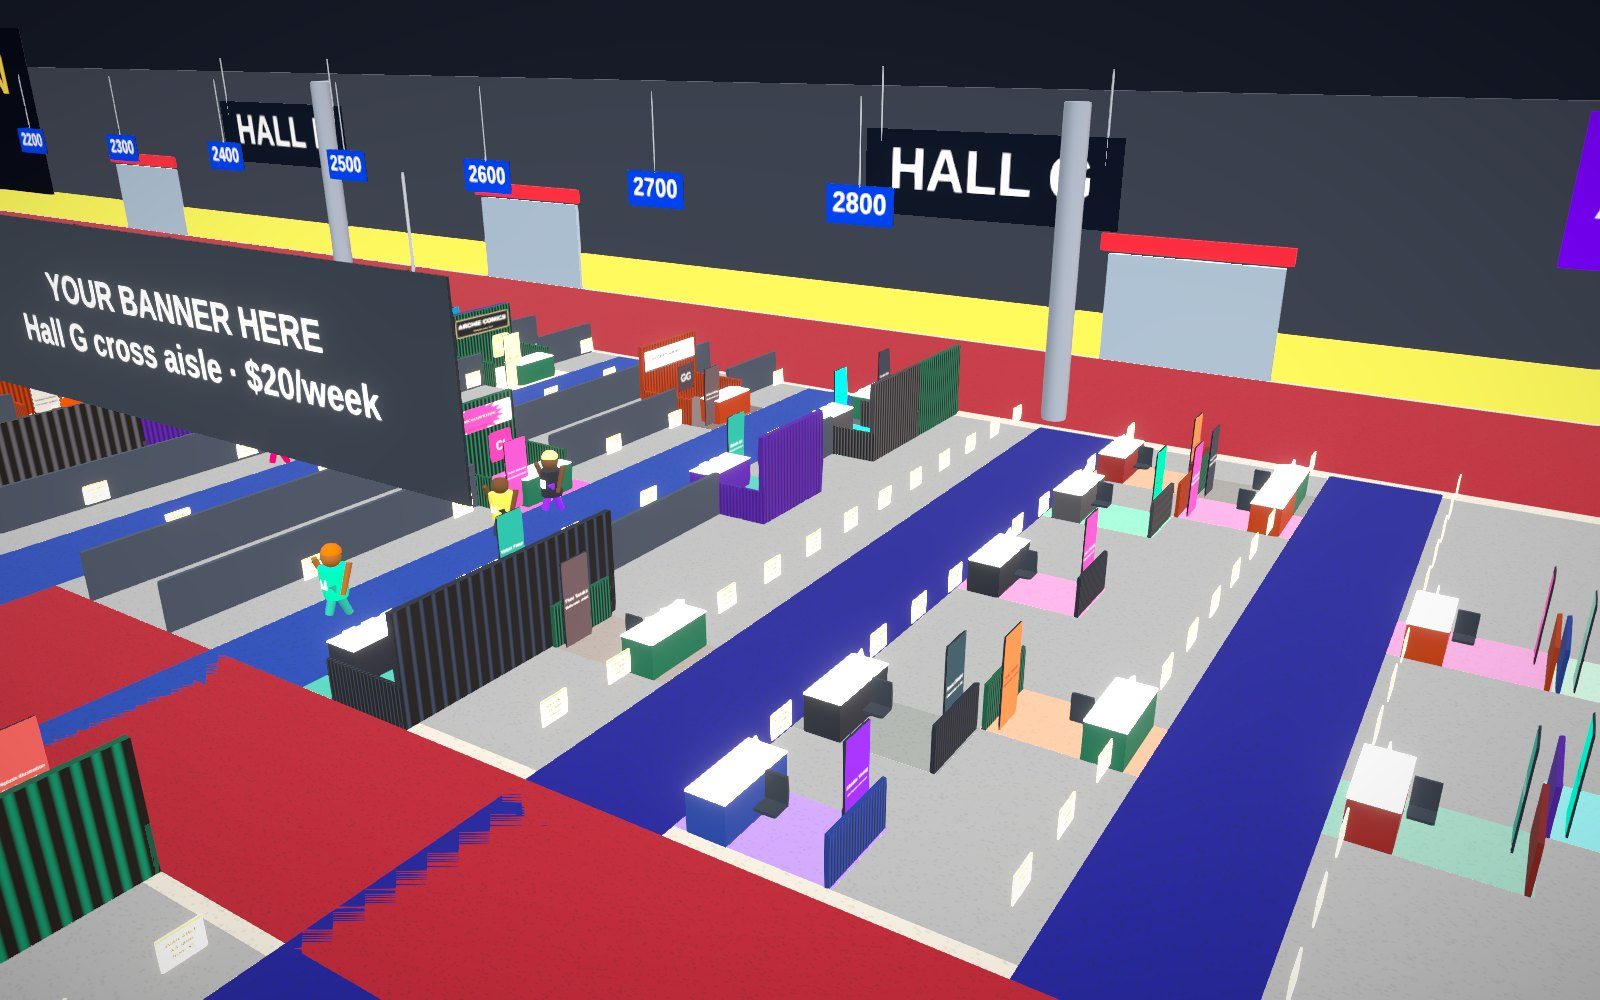
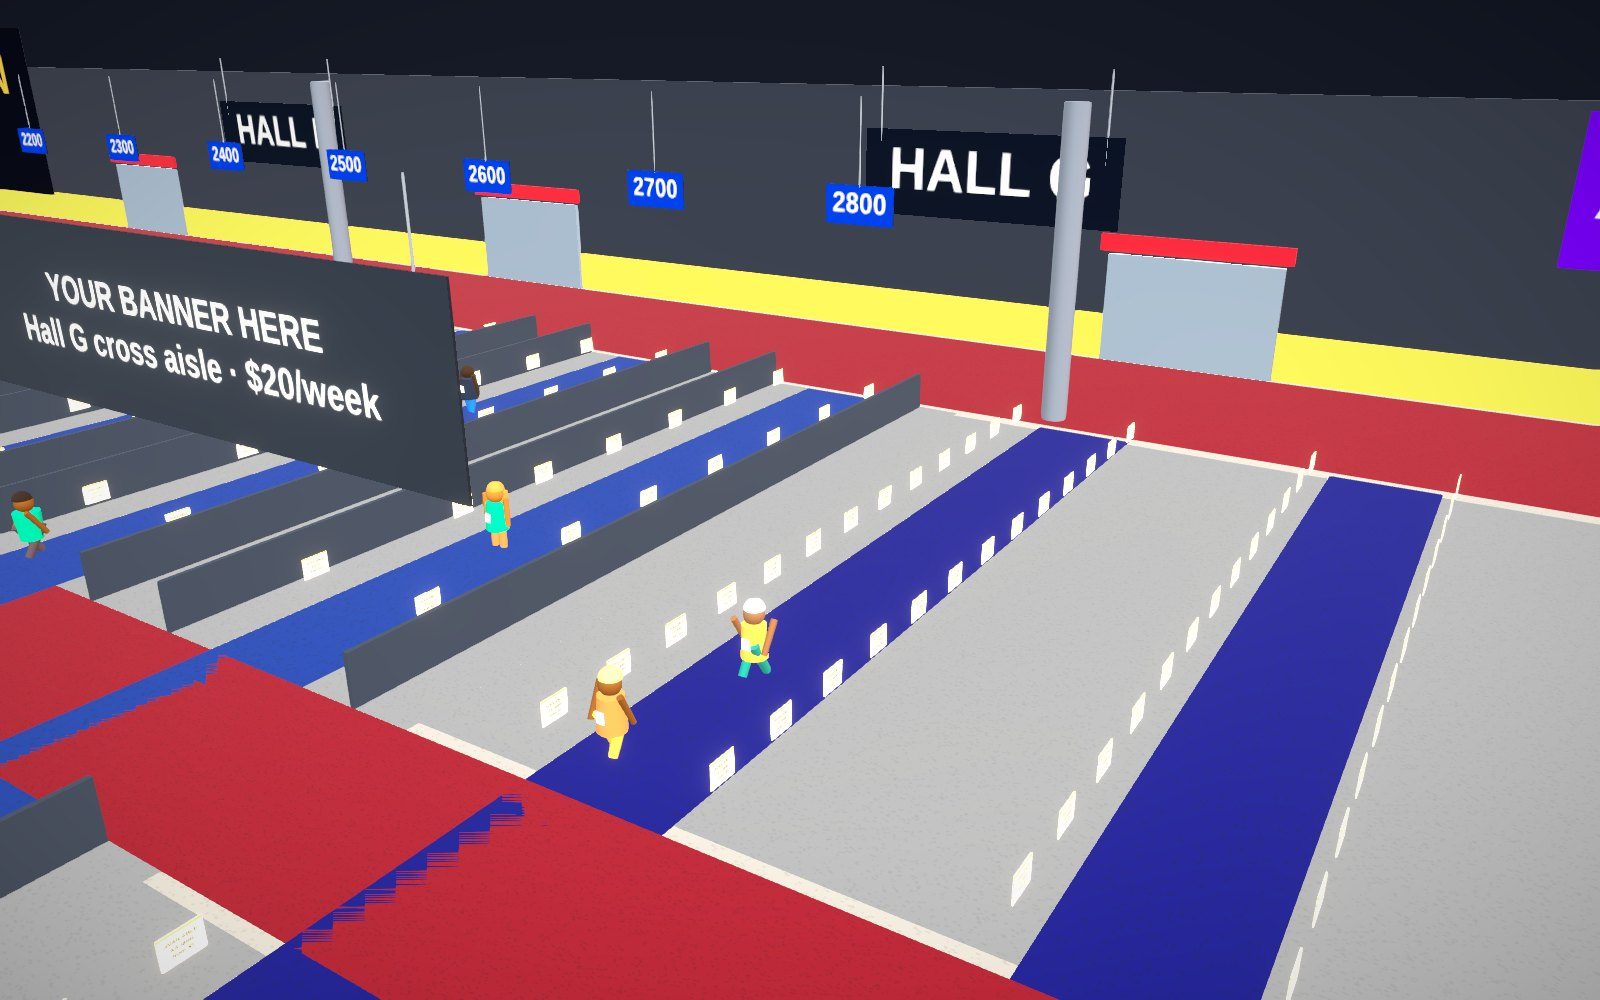
Production launches with an empty hall; bigger ambient crowd; no demo content
No seed in production: the demo seed moved to scripts/dev/seed-demo.ts, is
no longer an npm script, names only fictional exhibitors, and deploy.sh lost
its --seed flag. The landing page no longer shows invented numbers or events:
with zero booths it reads "Opening week" and the floating cards describe the
mechanics instead of fake takeovers; the marquee lists exhibitor categories,
not brands; all marketing renders and README images were recaptured from an
empty hall.

The crowd of walking bots grew to 110 on the map and 140 when walking, spread
across every aisle including Artists' Alley, with random pauses, varied pace
and distance culling so it stays smooth.

Claude-Session: https://claude.ai/code/session_01XnjhiRk9wMtWjBoAHjPDez

diff --git a/scripts/dev/seed-demo.ts b/scripts/dev/seed-demo.ts
@@ -1,75 +1,79 @@
 /**
- * Seeds a believable demo show floor: ~260 exhibitors and artists across the
- * halls, 30 days of metrics, a sales history and an activity feed. Run: npm run seed
+ * LOCAL DEVELOPMENT ONLY. Fills a local database with a fictional show floor so the
+ * 3D scene and dashboards have something to render while you work. Never run this
+ * against a production database: the site launches with an empty hall on purpose.
+ *
+ * Seeds a fictional show floor: ~260 exhibitors and artists across the
+ * halls, 30 days of metrics, a sales history and an activity feed. Run: npx tsx scripts/dev/seed-demo.ts [--force]
  * Idempotent-ish: skips if booths already exist unless --force.
  */
 import "dotenv/config";
 import { sql } from "drizzle-orm";
-import { db, ensureMigrated, schema } from "../src/lib/db";
-import { claimPriceCents, spaceColumns } from "../src/lib/economy";
-import { newCode, newId, seeded, dayKey } from "../src/lib/util";
-import { splitTakeover, BANNER_STYLES } from "../src/lib/config";
-import { hallLayout, boothSpace } from "../src/lib/hall/layout";
-import { closeSeason } from "../src/lib/seasons";
-import { weekBounds } from "../src/lib/util";
+import { db, ensureMigrated, schema } from "../../src/lib/db";
+import { claimPriceCents, spaceColumns } from "../../src/lib/economy";
+import { newCode, newId, seeded, dayKey } from "../../src/lib/util";
+import { splitTakeover, BANNER_STYLES } from "../../src/lib/config";
+import { hallLayout, boothSpace } from "../../src/lib/hall/layout";
+import { closeSeason } from "../../src/lib/seasons";
+import { weekBounds } from "../../src/lib/util";
 
 const force = process.argv.includes("--force");
 
 const NAMES: Array<[string, string, string, string]> = [
-  // name, tagline, category, website
-  ["Marvel Comics", "Earth's mightiest booth", "comics", "marvel.com"],
-  ["DC", "Home of the Justice League", "comics", "dc.com"],
-  ["Image Comics", "Creator-owned since 1992", "comics", "imagecomics.com"],
-  ["Dark Horse", "The best in illustrated storytelling", "comics", "darkhorse.com"],
-  ["IDW Publishing", "TMNT, Sonic, Star Trek", "comics", "idwpublishing.com"],
-  ["BOOM! Studios", "Something, Something, Something Comics", "comics", "boom-studios.com"],
-  ["Oni Press", "Scott Pilgrim lives here", "comics", "onipress.com"],
-  ["Fantagraphics", "Publisher of the world's greatest cartoonists", "comics", "fantagraphics.com"],
-  ["Hasbro Pulse", "Fan-first exclusives", "toys", "hasbropulse.com"],
-  ["Funko", "Pop! Everything.", "toys", "funko.com"],
-  ["Mattel Creations", "Masters of the Universe & more", "toys", "creations.mattel.com"],
-  ["Sideshow", "Collectible statues", "toys", "sideshow.com"],
-  ["Hot Toys", "1/6 scale perfection", "toys", "hottoys.com.hk"],
-  ["Super7", "ReAction figures", "toys", "super7.com"],
-  ["Wizards of the Coast", "Magic: The Gathering · D&D", "games", "wizards.com"],
-  ["Bandai Namco", "Gunpla, Dragon Ball, Tekken", "games", "bandainamcoent.com"],
-  ["Nintendo", "Play has no limits", "games", "nintendo.com"],
-  ["Pokémon Center", "Gotta catch 'em all", "games", "pokemoncenter.com"],
-  ["Crunchyroll", "Anime, every season", "media", "crunchyroll.com"],
-  ["Adult Swim", "[as]", "media", "adultswim.com"],
-  ["Nerdist", "Podcasts, news, nerds", "media", "nerdist.com"],
-  ["Lucasfilm", "A galaxy far, far away", "media", "starwars.com"],
-  ["Legendary", "Monsterverse", "media", "legendary.com"],
-  ["Loot Crate", "Monthly fandom boxes", "retail", "lootcrate.com"],
-  ["Mile High Comics", "The biggest back-issue dealer", "retail", "milehighcomics.com"],
-  ["Graphitti Designs", "Tees since 1982", "retail", "graphittidesigns.com"],
-  ["BoxLunch", "Give back, geek out", "retail", "boxlunch.com"],
-  ["Entertainment Earth", "Collectibles delivered", "retail", "entertainmentearth.com"],
-  ["Hero Initiative", "Helping comic creators in need", "fan", "heroinitiative.org"],
-  ["501st Legion", "Bad guys doing good", "fan", "501st.com"],
+  // name, tagline, category, website — all fictional; the demo floor never names real companies or people
+  ["Meridian Comics", "Heroes for a new century", "comics", "meridiancomics.example"],
+  ["Nightfall Press", "Crime, noir and the occasional ghost", "comics", "nightfallpress.example"],
+  ["Paper Rocket", "Creator-owned since 2014", "comics", "paperrocket.example"],
+  ["Ironwood Books", "The best in illustrated storytelling", "comics", "ironwoodbooks.example"],
+  ["Tidal Wave Comics", "Sea monsters, every Wednesday", "comics", "tidalwavecomics.example"],
+  ["Lantern Hill", "Something, something, something comics", "comics", "lanternhill.example"],
+  ["Quarter Moon", "Slice-of-life, one slice at a time", "comics", "quartermoon.example"],
+  ["Gutterworks", "Publisher of the world's strangest cartoonists", "comics", "gutterworks.example"],
+  ["Kaboom Toys", "Fan-first exclusives", "toys", "kaboomtoys.example"],
+  ["Pop Shelf", "Vinyl figures of everyone", "toys", "popshelf.example"],
+  ["Forge & Form", "Masters of the resin statue", "toys", "forgeandform.example"],
+  ["Sixth Scale Co.", "1/6 scale perfection", "toys", "sixthscale.example"],
+  ["Retro Reaction", "Carded figures like it's 1984", "toys", "retroreaction.example"],
+  ["Model Depot", "Kits, decals and airbrush supplies", "toys", "modeldepot.example"],
+  ["Spellbound Games", "The card game with a thousand decks", "games", "spellboundgames.example"],
+  ["Pixel Harbor", "Indie games, played here first", "games", "pixelharbor.example"],
+  ["Dungeon Door", "Tabletop RPGs and dice by the pound", "games", "dungeondoor.example"],
+  ["Deckbuilders Guild", "Trade, sleeve, shuffle", "games", "deckbuilders.example"],
+  ["Nightstream", "Streaming the shows comics became", "media", "nightstream.example"],
+  ["Late Night Toons", "Cartoons for grown-ups", "media", "latenighttoons.example"],
+  ["Nerd Signal", "Podcasts, news, nerds", "media", "nerdsignal.example"],
+  ["Starfall Studios", "A galaxy of our own", "media", "starfallstudios.example"],
+  ["Titan Pictures", "Monsters, mostly", "media", "titanpictures.example"],
+  ["Loot Vault", "Monthly fandom boxes", "retail", "lootvault.example"],
+  ["Mile Long Comics", "The biggest back-issue dealer", "retail", "milelongcomics.example"],
+  ["Ink & Thread", "Tees since 1982", "retail", "inkandthread.example"],
+  ["Lunchbox", "Give back, geek out", "retail", "lunchbox.example"],
+  ["Collectors' Crate", "Collectibles delivered", "retail", "collectorscrate.example"],
+  ["Creators Relief Fund", "Helping comic creators in need", "fan", "creatorsrelief.example"],
+  ["The 404th Legion", "Bad guys doing good", "fan", "404thlegion.example"],
   ["Cosplay Central", "Builds, foam, LEDs", "fan", "cosplaycentral.example"],
   ["Golden Age Pavilion", "Pre-code and pedigree books", "retail", "goldenagepavilion.example"],
-  ["Comic Book Legal Defense Fund", "Protecting the freedom to read", "fan", "cbldf.org"],
-  ["Skottie Young", "I Hate Fairyland · sketch covers", "art", "skottieyoung.com"],
-  ["Fiona Staples", "Saga", "art", "fionastaples.example"],
-  ["Jim Lee", "DC Publisher & artist", "art", "jimlee.example"],
-  ["Peach Momoko", "Demon Days", "art", "peachmomoko.example"],
-  ["Artgerm", "Prints & lithographs", "art", "artgerm.com"],
-  ["Mondo", "Posters, vinyl, collectibles", "art", "mondoshop.com"],
-  ["Webtoon", "Vertical scroll comics", "comics", "webtoons.com"],
-  ["Tapas", "Comics and novels", "comics", "tapas.io"],
-  ["Kickstarter Comics", "Launch your book", "comics", "kickstarter.com"],
-  ["Heritage Auctions", "Key issues, graded", "retail", "ha.com"],
-  ["CGC", "Comics grading", "retail", "cgccomics.com"],
-  ["Weta Workshop", "Props and miniatures", "toys", "wetanz.com"],
-  ["Square Enix", "Final Fantasy & Kingdom Hearts", "games", "square-enix.com"],
-  ["Capcom", "Street Fighter · Resident Evil", "games", "capcom.com"],
-  ["Titan Comics", "Doctor Who, Blade Runner", "comics", "titan-comics.com"],
-  ["Archie Comics", "Riverdale since 1941", "comics", "archiecomics.com"],
-  ["Viz Media", "Manga, anime, more", "comics", "viz.com"],
+  ["Freedom to Read Fund", "Protecting the freedom to read", "fan", "freedomtoread.example"],
+  ["Ava Okafor", "Sketch covers and sticker sheets", "art", "avaokafor.example"],
+  ["Kenji Tanaka", "Space opera, in ink", "art", "kenjitanaka.example"],
+  ["Mara Lindqvist", "Character designer", "art", "maralindqvist.example"],
+  ["Theo Reyes", "Demon-haunted watercolor", "art", "theoreyes.example"],
+  ["Yuki Haddad", "Prints & lithographs", "art", "yukihaddad.example"],
+  ["Poster Moon", "Posters, vinyl, collectibles", "art", "postermoon.example"],
+  ["Scrollcomics", "Vertical scroll comics", "comics", "scrollcomics.example"],
+  ["Tapestry", "Comics and novels", "comics", "tapestry.example"],
+  ["Launchpad Comics", "Crowdfund your book", "comics", "launchpadcomics.example"],
+  ["Keystone Auctions", "Key issues, graded", "retail", "keystoneauctions.example"],
+  ["Slab Lab", "Comics grading", "retail", "slablab.example"],
+  ["Prop Shop", "Props and miniatures", "toys", "propshop.example"],
+  ["Crystal Quest", "Fantasy RPGs since forever", "games", "crystalquest.example"],
+  ["Street Brawler", "Fighting games, arcade exclusives", "games", "streetbrawler.example"],
+  ["Crown Comics", "Time travel, blade runners", "comics", "crowncomics.example"],
+  ["Riverside Comics", "Small-town teens since 1941", "comics", "riversidecomics.example"],
+  ["Harbor Comics", "Graphic novels for every shelf", "comics", "harborcomics.example"],
 ];
 
-const ADJ = ["Ink", "Panel", "Gutter", "Splash", "Vortex", "Neon", "Retro", "Moon", "Lunar", "Pulp", "Kaiju", "Hero", "Rogue", "Cosmic", "Shadow", "Pixel", "Atomic", "Vinyl", "Onyx", "Ember"];
+const ADJ = ["Ink", "Panel", "Gutter", "Splash", "Vortex", "Neon", "Retro", "Moon", "Lunar", "Pulp", "Crimson", "Hero", "Rogue", "Cosmic", "Shadow", "Pixel", "Atomic", "Vinyl", "Onyx", "Ember"];
 const NOUN = ["Press", "Studio", "Comics", "Collective", "Illustration", "Prints", "Zines", "Toys", "Games", "Guild", "Forge", "Foundry", "Workshop", "Art", "Club", "Gallery", "Lab", "Co.", "Books", "Tales"];
 const STYLES = BANNER_STYLES;
 const CLOTHS = ["#111827", "#7f1d1d", "#1e3a8a", "#065f46", "#4c1d95", "#9a3412", "#3f3f46"];
@@ -253,9 +257,9 @@ async function main() {
     ["Harbor Coffee Co.", 4, "Morning everyone, fresh batch on the site today ☕"],
     ["$ORBIT", 3, "orbit holders assemble, we're climbing the rankings"],
     ["Pixel & Pine", 2, "Just moved our logo to the rooftop sign. looks so good at night"],
-    ["Marvel Comics", 1, "Got 400 banner clicks this week. Not bad for a booth."],
+    ["Meridian Comics", 1, "Got 400 banner clicks this week. Not bad for a booth."],
     ["Looma", 6, "Anyone else notice booth #20 keeps changing hands lol"],
-    ["Oni Press", 7, "signing at our booth right now, link on the banner"],
+    ["Quarter Moon", 7, "signing at our booth right now, link on the banner"],
   ];
   const chatOwner = owners[0];
   let ct = nowTs - 6 * 3600_000;

diff --git a/src/components/marketing/Hero.tsx b/src/components/marketing/Hero.tsx
@@ -22,23 +22,28 @@ export function Hero({ stats }: { stats: Stats }) {
           <Link href="/app" className="mk-btn mk-btn--ghost">Walk the floor <span className="text-slate-400">·</span> free</Link>
         </div>
         <div className="mk-reveal on mt-8 flex flex-wrap items-center justify-center gap-x-8 gap-y-2 text-sm text-slate-400" data-delay="4">
-          <span><b className="text-white"><CountUp to={stats.claimed} /></b> booths claimed of {stats.totalBooths.toLocaleString()}</span>
-          <span><b className="text-white"><CountUp to={stats.totalViews} /></b> visits</span>
-          <span><b className="text-white">{formatMoney(stats.totalSalesCents)}</b> in booth sales</span>
+          {stats.claimed > 0 ? (<>
+            <span><b className="text-white"><CountUp to={stats.claimed} /></b> booths claimed of {stats.totalBooths.toLocaleString()}</span>
+            <span><b className="text-white"><CountUp to={stats.totalViews} /></b> visits</span>
+            {stats.totalSalesCents > 0 && <span><b className="text-white">{formatMoney(stats.totalSalesCents)}</b> in booth sales</span>}
+          </>) : (<>
+            <span><b className="text-white">Opening week.</b> All {stats.totalBooths.toLocaleString()} spaces are open, including every island.</span>
+            <span><b className="text-white">First come, first booth.</b> Headliner Row goes first.</span>
+          </>)}
         </div>
       </div>
       <Tilt className="mk-reveal on relative mx-auto mt-14 max-w-6xl" >
         <div className="mk-glow mk-glow--gold" style={{ width: 500, height: 300, left: "20%", top: "-20%", opacity: 0.35 }} />
         <div className="mk-frame">
           {/* eslint-disable-next-line @next/next/no-img-element */}
-          <img src="/marketing/hero.jpg" alt="The show floor: Headliner Row, islands, hanging signs and the arcade in the middle of the hall" width={1920} height={1200} loading="eager" />
+          <img src="/marketing/hero.jpg" alt="The show floor: Headliner Row, island spaces, hanging banners and the arcade in the middle of the hall" width={1920} height={1200} loading="eager" />
           <div className="absolute inset-x-0 bottom-0 z-10 flex flex-wrap items-end justify-between gap-4 p-6 md:p-8">
-            <div><div className="mk-eyebrow">Live · Hall D · Headliner Row</div><div className="display mt-1 text-2xl font-bold md:text-3xl">1,042 spaces. Aisles 100 to 2800. Artists&apos; Alley at the east end.</div></div>
+            <div><div className="mk-eyebrow">Hall D · Headliner Row</div><div className="display mt-1 text-2xl font-bold md:text-3xl">1,042 spaces. Aisles 100 to 2800. Artists&apos; Alley at the east end.</div></div>
             <Link href="/app?booth=406" className="mk-btn mk-btn--ghost !py-3">Fly to an island booth →</Link>
           </div>
         </div>
-        <FloatingCard className="left-[-14px] top-[12%] hidden md:block" r="-4deg" title="Pokémon Center took over booth 1502" sub="$265 · seller paid out $208" color="#ff2bd6" />
-        <FloatingCard className="right-[-18px] top-[38%] hidden md:block" r="3deg" title="Banner click → nintendo.com" sub="Impressions 2,456 · CTR 21%" color="#00f5ff" delay="2s" />
+        <FloatingCard className="left-[-14px] top-[12%] hidden md:block" r="-4deg" title="Takeovers pay the seller" sub="Buyer pays 1.25× · you keep the profit" color="#ff2bd6" />
+        <FloatingCard className="right-[-18px] top-[38%] hidden md:block" r="3deg" title="Banner click → your site" sub="Impressions, visits, CTR, referrers" color="#00f5ff" delay="2s" />
       </Tilt>
     </section>
   );

diff --git a/src/components/hall/Avatar.tsx b/src/components/hall/Avatar.tsx
@@ -187,30 +187,40 @@ export function Player() {
 }
 
 /* ---------- NPC crowd wandering the aisles ---------- */
-interface Npc { config: AvatarConfig; x: number; z: number; dz: number; speed: number; corridor: number }
+interface Npc { config: AvatarConfig; x: number; z: number; dz: number; speed: number; corridor: number; pauseUntil: number; nextPause: number }
 function rnd(seed: number) { return () => { seed = (seed * 16807) % 2147483647; return seed / 2147483647; }; }
-export function Crowd({ count = 36 }: { count?: number }) {
+export function Crowd({ count = 110 }: { count?: number }) {
   const npcs = useMemo<Npc[]>(() => {
     const r = rnd(42);
-    const corridors = hallLayout().filter((b) => b.kind === "exhibitor" && b.facing === 1).map((b) => b.x + b.w / 2 + 5);
+    const corridors = hallLayout().filter((b) => b.facing === 1).map((b) => b.x + b.w / 2 + 5);
     const unique = Array.from(new Set(corridors.map((x) => Math.round(x))));
     return Array.from({ length: count }, (_, i) => {
       const corridor = unique[Math.floor(r() * unique.length)];
       return {
         config: { ...DEFAULT_AVATAR, body: r() < 0.5 ? "a" : "b", skin: SKIN_TONES[Math.floor(r() * SKIN_TONES.length)], hair: (["short", "long", "buzz", "bun", "bald"] as const)[Math.floor(r() * 5)], hairColor: HAIR_COLORS[Math.floor(r() * 9)], shirt: OUTFIT_COLORS[Math.floor(r() * OUTFIT_COLORS.length)], pants: OUTFIT_COLORS[Math.floor(r() * OUTFIT_COLORS.length)] },
-        x: corridor + (r() - 0.5) * 4, z: Z_FRONT + r() * (Z_BACK - Z_FRONT), dz: r() < 0.5 ? 1 : -1, speed: 4 + r() * 4, corridor: i,
+        x: corridor + (r() - 0.5) * 4, z: Z_FRONT + r() * (Z_BACK - Z_FRONT), dz: r() < 0.5 ? 1 : -1, speed: 3.5 + r() * 5, corridor: i, pauseUntil: 0, nextPause: 4 + r() * 20,
       };
     });
   }, [count]);
   const refs = useRef<(THREE.Group | null)[]>([]);
   const motions = useMemo<Motion[]>(() => npcs.map(() => ({ speed: 1 })), [npcs]);
-  useFrame((_, dt) => {
+  useFrame(({ camera, clock }, dt) => {
     const d = Math.min(dt, 0.05);
+    const t = clock.elapsedTime;
     npcs.forEach((n, i) => {
-      n.z += n.dz * n.speed * d;
+      // stop at a booth now and then, then move on
+      if (t < n.pauseUntil) { motions[i].speed = 0; }
+      else {
+        if (t > n.nextPause) { n.pauseUntil = t + 2 + Math.random() * 5; n.nextPause = n.pauseUntil + 6 + Math.random() * 25; motions[i].speed = 0; }
+        else { motions[i].speed = n.speed > 7.5 ? 2 : 1; n.z += n.dz * n.speed * d; }
+      }
       if (n.z > Z_BACK + 6 || n.z < Z_FRONT - 6) n.dz *= -1;
       const g = refs.current[i];
-      if (g) { g.position.set(n.x, 0, n.z); g.rotation.y = n.dz > 0 ? 0 : Math.PI; }
+      if (g) {
+        g.position.set(n.x, 0, n.z); g.rotation.y = n.dz > 0 ? 0 : Math.PI;
+        // only draw people near the camera; the rest keep walking unseen
+        g.visible = Math.hypot(camera.position.x - n.x, camera.position.z - n.z) < 240;
+      }
     });
   });
   return <>{npcs.map((n, i) => <group key={i} ref={(el) => { refs.current[i] = el; }}><AvatarModel config={n.config} motion={motions[i]} /></group>)}</>;

diff --git a/src/components/marketing/Sections.tsx b/src/components/marketing/Sections.tsx
@@ -69,7 +69,7 @@ export function Arcade() {
   );
 }
 
-const ROW = ["Marvel", "DC", "Image", "Dark Horse", "IDW", "BOOM!", "Oni Press", "Fantagraphics", "Hasbro Pulse", "Funko", "Sideshow", "Hot Toys", "Wizards of the Coast", "Bandai Namco", "Crunchyroll", "Mondo", "Webtoon", "Viz", "Artists' Alley", "Small Press", "Cosplay", "Golden Age"];
+const ROW = ["Publishers", "Artists' Alley", "Small Press", "Toys & Collectibles", "Tabletop", "Video Games", "Film & TV", "Podcasts", "Cosplay", "Back Issues", "Golden Age", "Webcomics", "Prints & Commissions", "Fan Clubs", "Retailers"];
 export function Marquee() {
   const items = [...ROW, ...ROW];
   return (
@@ -77,7 +77,7 @@ export function Marquee() {
       <div className="mk-marquee gap-10 text-sm font-semibold uppercase tracking-[0.2em] text-slate-500">
         {items.map((t, i) => <span key={i} className="whitespace-nowrap">{t} <span className="mx-4 text-[#ffcf5c]">✦</span></span>)}
       </div>
-      <p className="sr-only">Demo exhibitors on the floor include publishers, toy makers, studios and artists.</p>
+      <p className="sr-only">Who exhibits: publishers, artists, small press, toy makers, game studios, media, retailers and fan communities.</p>
     </div>
   );
 }

diff --git a/src/components/marketing/Faq.tsx b/src/components/marketing/Faq.tsx
@@ -47,7 +47,7 @@ export function Footer() {
         <nav className="flex flex-wrap gap-5">
           <Link className="hover:text-white" href="/app">The hall</Link><Link className="hover:text-white" href="/app/directory">Exhibitors</Link><Link className="hover:text-white" href="/app/rankings">Rankings</Link><Link className="hover:text-white" href="/app/seasons">Seasons</Link><Link className="hover:text-white" href="/app/arcade">Arcade</Link><Link className="hover:text-white" href="/app/how-it-works">Rules &amp; refunds</Link><Link className="hover:text-white" href="/app/login">Sign in</Link>
         </nav>
-        <div>© {new Date().getFullYear()} {SITE_NAME}. Not affiliated with any convention or the exhibitors shown in demos.</div>
+        <div>© {new Date().getFullYear()} {SITE_NAME}. Not affiliated with any convention.</div>
       </div>
     </footer>
   );

diff --git a/src/components/hall/Scene.tsx b/src/components/hall/Scene.tsx
@@ -34,7 +34,7 @@ export function Scene() {
       <PreviewBooth />
       <AisleBanners billboards={billboards} night={night} />
       <EntranceBanner billboards={billboards} night={night} />
-      <Crowd count={mode === "walk" ? 48 : 30} />
+      <Crowd count={mode === "walk" ? 140 : 110} />
       <Mascot />
       <Player />
       <CameraRig />

diff --git a/README.md b/README.md
@@ -9,9 +9,9 @@ Built as a direct answer to Claim Avenue, with the mechanics people actually wan
 and the parts it is missing: owners get something measurable back, the economy has
 recurring revenue, and there are reasons to come back every day.
 
-![show floor](docs/hall.png)
+![show floor](docs/hall.jpg)
 
-![walking the floor](docs/walk.png)
+![walking the floor](docs/walk.jpg)
 
 ## What's in the box
 
@@ -48,7 +48,7 @@ recurring revenue, and there are reasons to come back every day.
 ```bash
 cp .env.example .env.local      # defaults work out of the box (DivinityCoin test mode, console email)
 npm install
-npm run seed                    # ~260 demo exhibitors, 30 days of metrics, a feed
+npx tsx scripts/dev/seed-demo.ts   # optional, LOCAL DEV ONLY: a fictional floor to look at while coding
 npm run dev                     # http://localhost:3000
 ```
 
@@ -124,11 +124,11 @@ src/app/api/admin/       admin JSON routes (guarded by requireAdmin)
 src/lib/hall/layout.ts   the floor plan: every space, its size, zone, hall, aisle and price
 src/components/hall/     Three.js scene (Hall, Booth, EmptyBooths, Avatar, Arcade), HUD, panels, FloorPlan
 src/app/                 pages + API routes
-scripts/seed.ts          demo data
+scripts/dev/seed-demo.ts  fictional floor for local development only
 docs/STRATEGY.md         revenue, growth and engagement plan
 ```
 
 ## Scripts
 
-`npm run dev` · `npm run build` · `npm start` · `npm run seed [-- --force]` ·
+`npm run dev` · `npm run build` · `npm start` · `npm run models` ·
 `npm run typecheck` · `npm run lint` · `npm run db:generate` (after schema changes)
